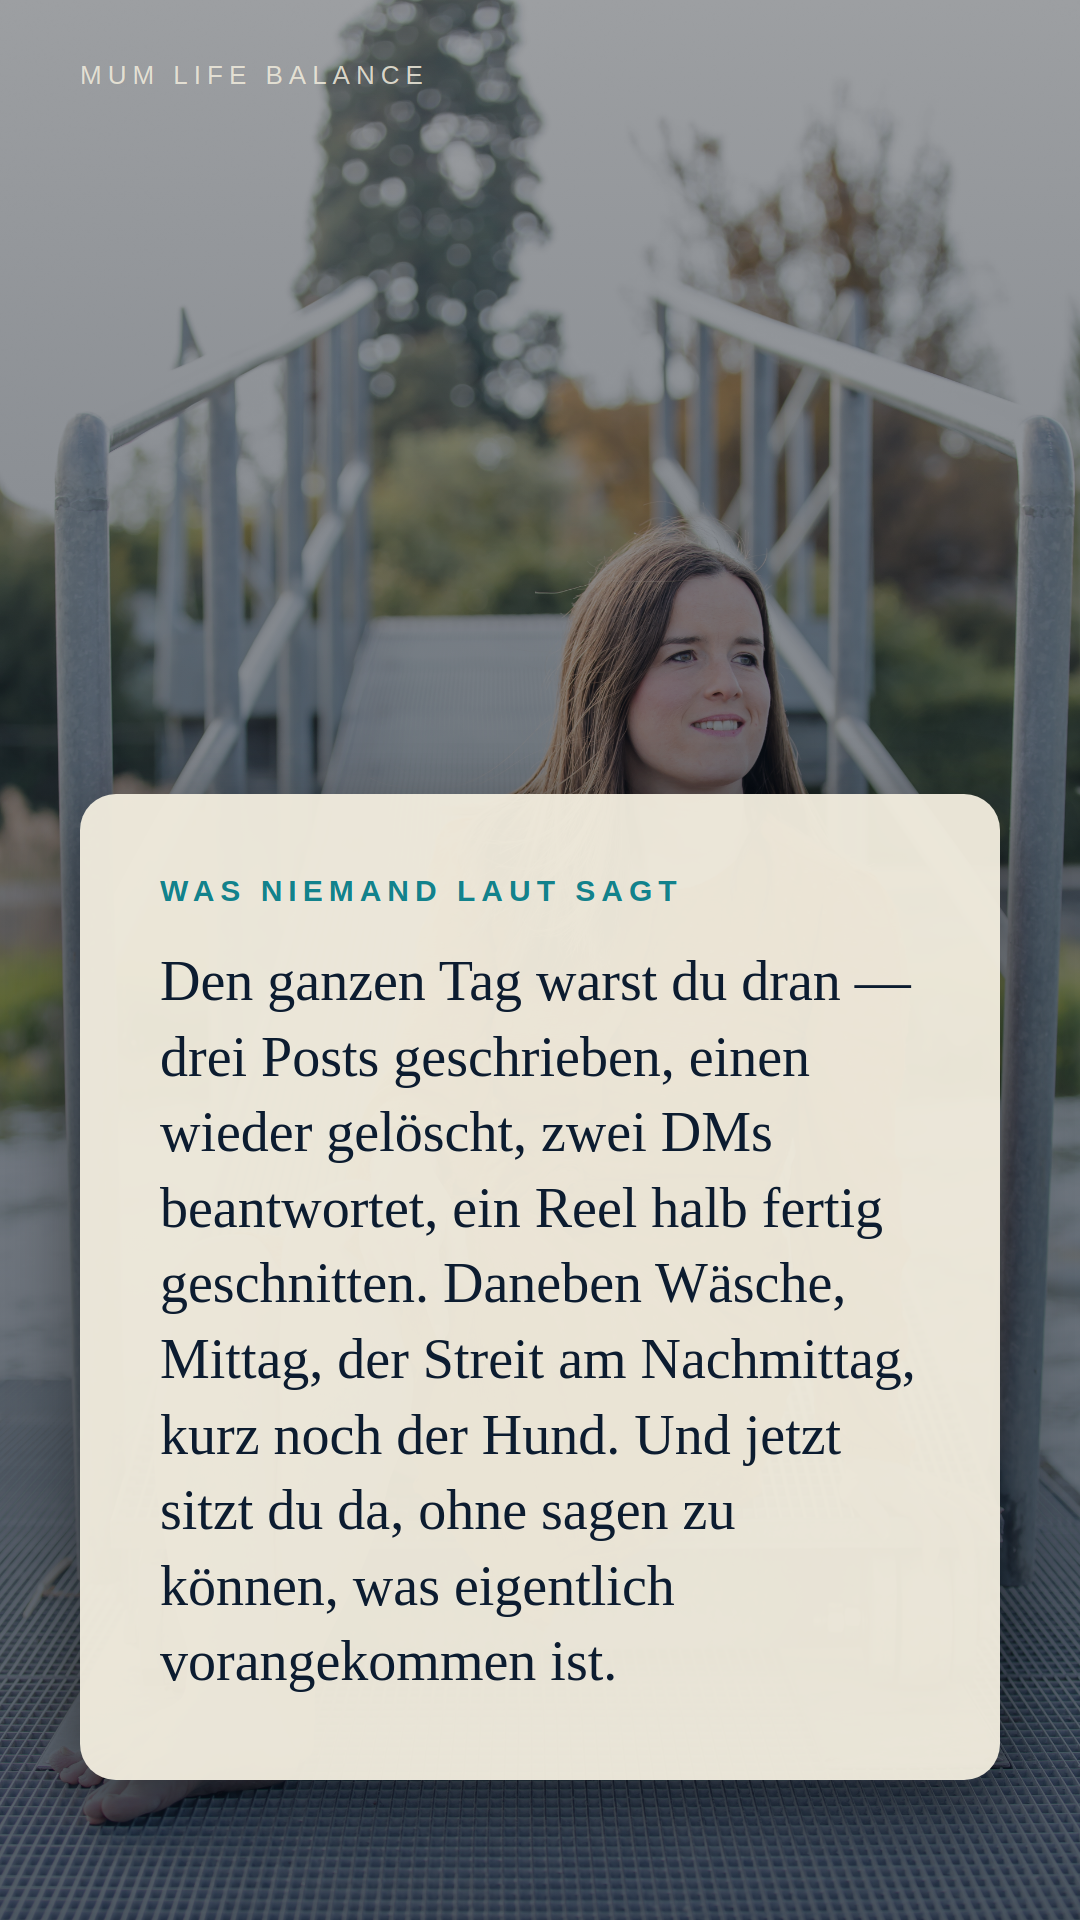
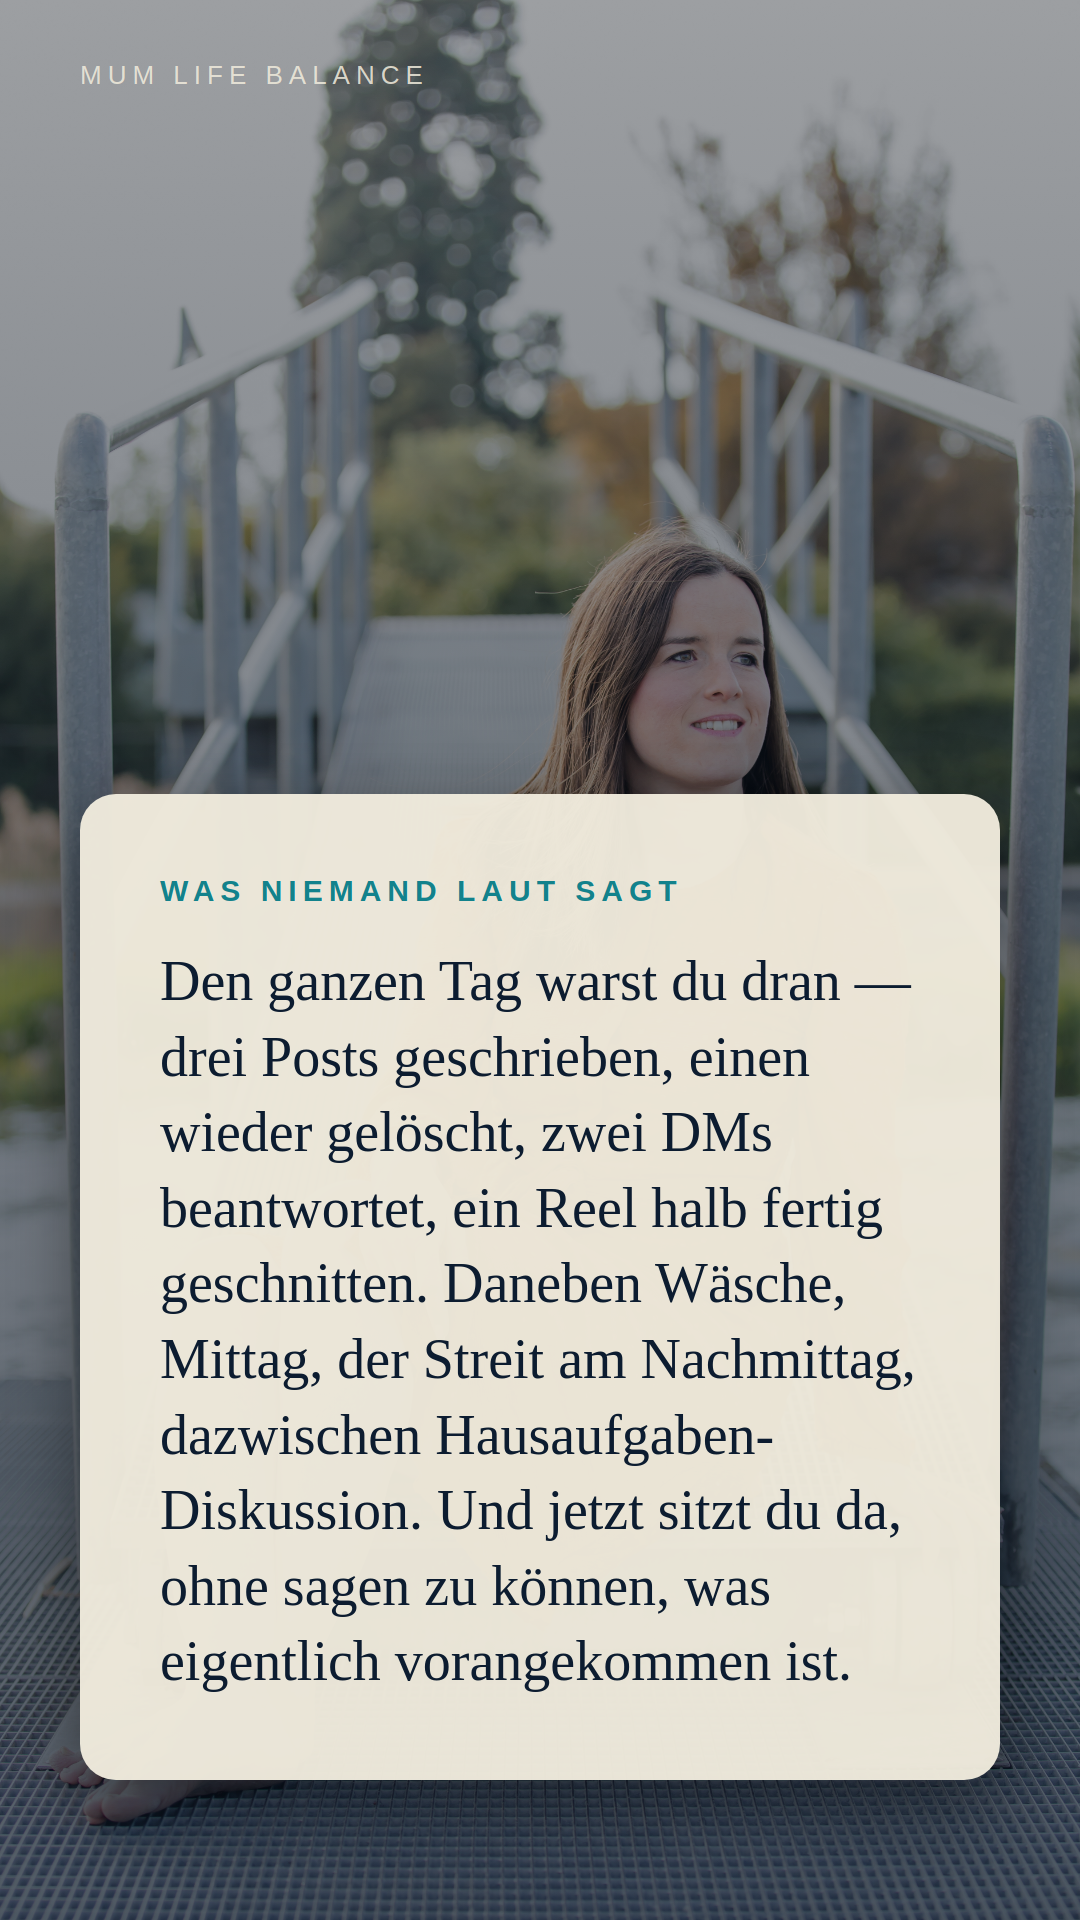
story: Tag -6 Slide 2 — Hund-Erfindung korrigiert
Patricia hat keinen Hund. „kurz noch der Hund" durch
„dazwischen Hausaufgaben-Diskussion" ersetzt. Slide 2 neu gerendert.

Verstoss gegen feedback_keine-erfundenen-zahlen — nicht nur Zahlen,
auch Lebensdetails sind tabu.

Changed region(s): [[0.1528, 0.7188, 0.825, 0.875]]

diff --git a/outputs/stories/2026-05-14-tagesplan-mentoring-mama-ceo-tag-minus-6/slides.html b/outputs/stories/2026-05-14-tagesplan-mentoring-mama-ceo-tag-minus-6/slides.html
@@ -159,7 +159,7 @@
         <div class="card">
           <div class="card-eyebrow">Was niemand laut sagt</div>
           <div class="card-text">
-            Den ganzen Tag warst du dran — drei Posts geschrieben, einen wieder gelöscht, zwei DMs beantwortet, ein Reel halb fertig geschnitten. Daneben Wäsche, Mittag, der Streit am Nachmittag, kurz noch der Hund. Und jetzt sitzt du da, ohne sagen zu können, was eigentlich vorangekommen ist.
+            Den ganzen Tag warst du dran — drei Posts geschrieben, einen wieder gelöscht, zwei DMs beantwortet, ein Reel halb fertig geschnitten. Daneben Wäsche, Mittag, der Streit am Nachmittag, dazwischen Hausaufgaben-Diskussion. Und jetzt sitzt du da, ohne sagen zu können, was eigentlich vorangekommen ist.
           </div>
         </div>
       </div>
